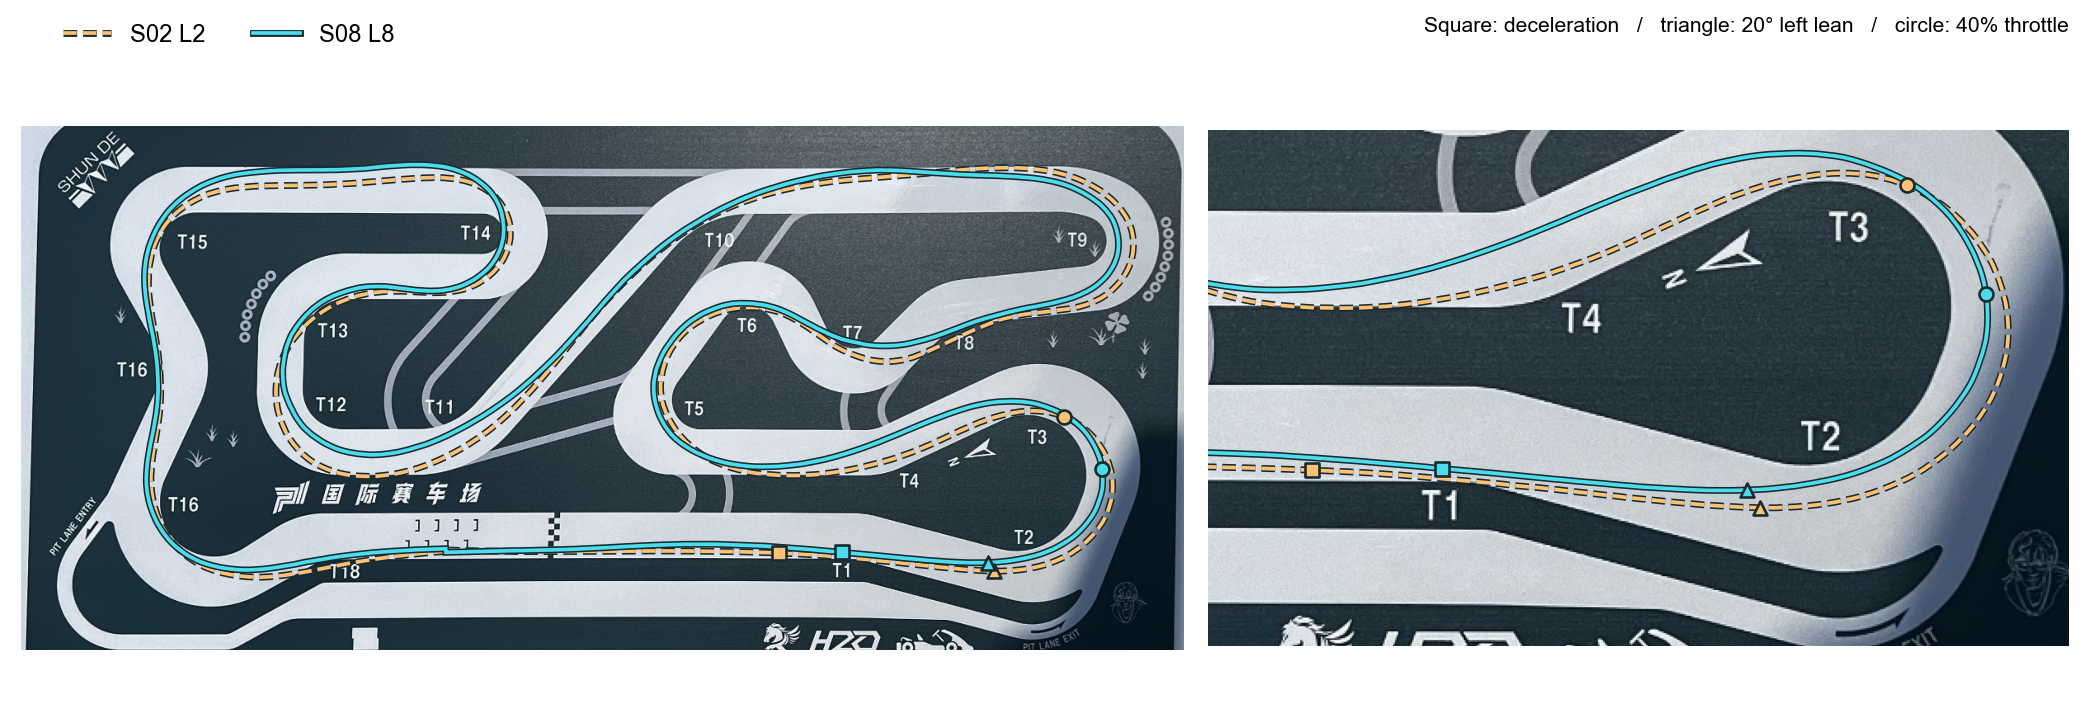
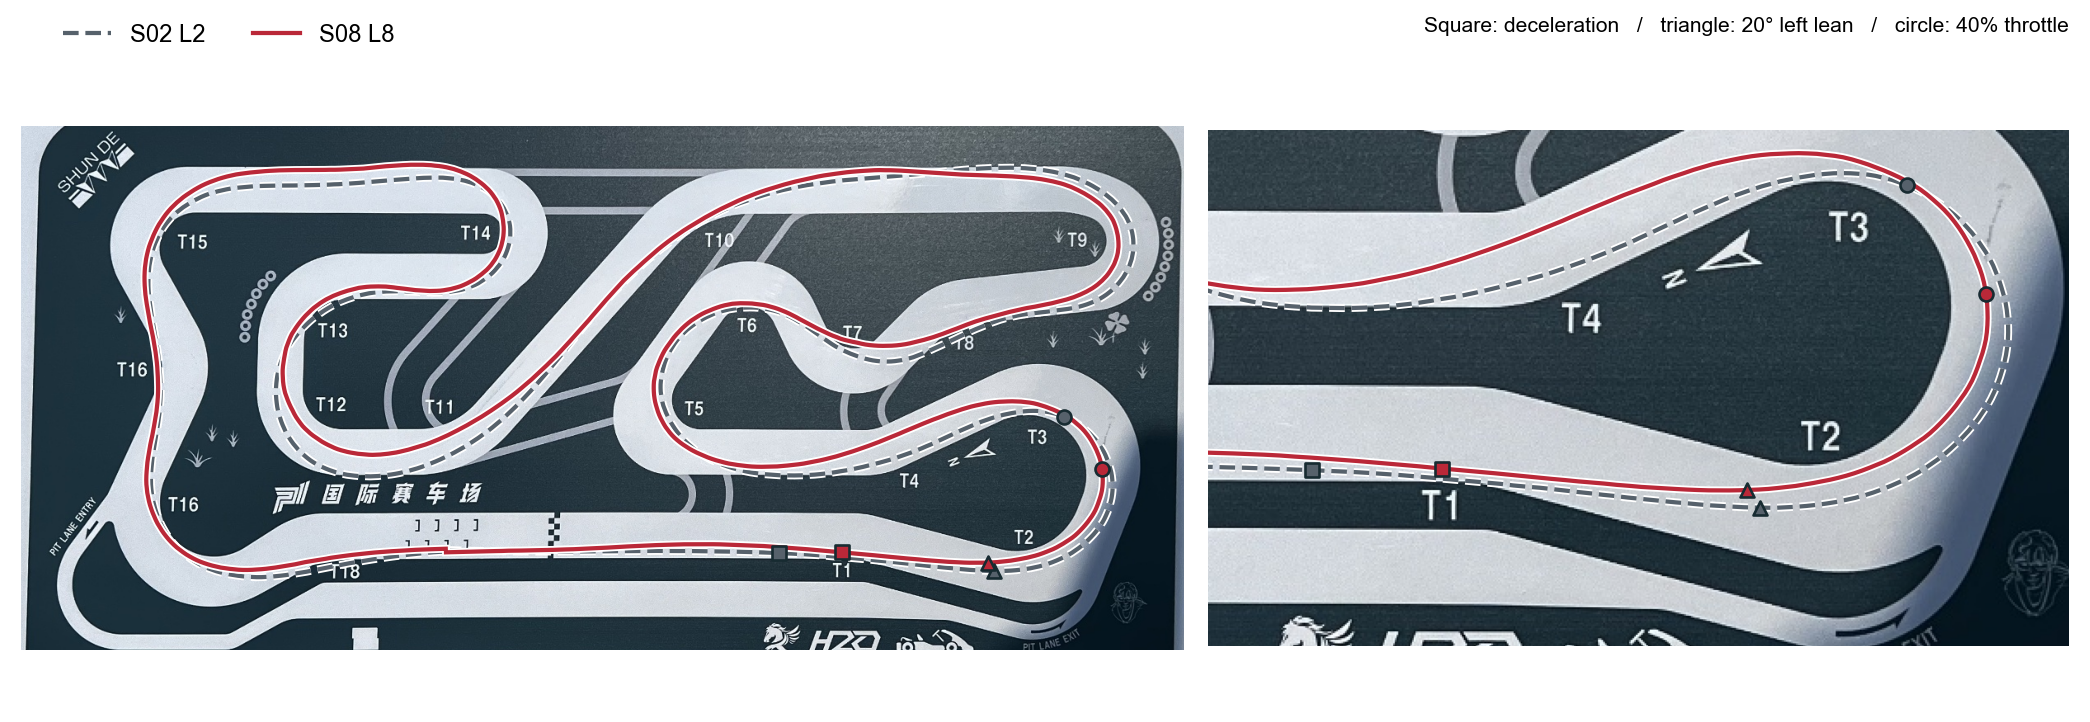
Use graphite and red for the T2 line comparison

diff --git a/case_studies/p1-gpr150-analysis.md b/case_studies/p1-gpr150-analysis.md
@@ -81,7 +81,7 @@ GNSS supplies position and speed; OBD supplies throttle and engine speed. Decele
 
 ![P1 line comparison and physical braking reference](../assets/p1/p1-t2-board-reference.png)
 
-The cyan square marks S08 L8's deceleration onset, at the raised-kerb reference I eventually adopted; the orange square marks S02 L2 farther upstream. The same schematic transform places both recorded paths on the existing P1 layout. The video is S04 L4, while the map compares S02 L2 and S08 L8.
+The red square marks S08 L8's deceleration onset, at the raised-kerb reference I eventually adopted; the grey square marks S02 L2 farther upstream. The same schematic transform places both recorded paths on the existing P1 layout. The video is S04 L4, while the map compares S02 L2 and S08 L8.
 
 The overlay joins GNSS speed, OBD RPM/throttle and calculated lean/longitudinal G to the recovered VBO video clock. L4 begins approximately **2.21 s into the excerpt**. Engine sound is retained and the HLG source is converted to SDR for playback. [Alignment details](p1-gpr150-methods.md#video-and-map-alignment).
 
